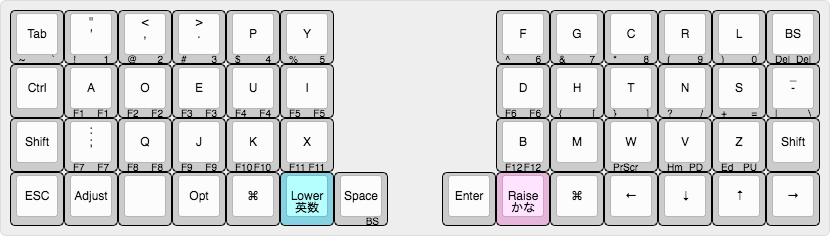
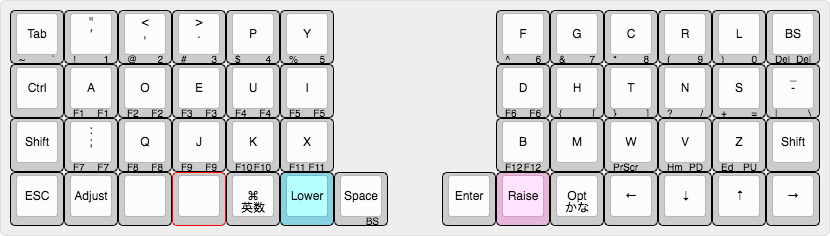
Modify thumb-keys
- Change Right Command to Option
- Assign Kana to Right Command tap
- Assign Eisu to Left Command tap

diff --git a/keyboards/helix/pico/keymaps/juno/keymap.c b/keyboards/helix/pico/keymaps/juno/keymap.c
@@ -65,7 +65,7 @@ const uint16_t PROGMEM keymaps[][MATRIX_ROWS][MATRIX_COLS] = {
    * |------+------+------+------+------+------|             |------+------+------+------+------+------|
    * | Shift|   Z  |   X  |   C  |   V  |   B  |             |   N  |   M  |   ,  |   .  |   /  |Shift |
    * |------+------+------+------+------+------+-------------+------+------+------+------+------+------|
-   * |Esc   |Adjust| Alt  | Alt  | GUI  |Lower |Space |Enter |Raise | GUI  | Left | Down |  Up  |Right |
+   * |Esc   |Adjust| Alt  | Alt  | GUIEI|Lower |Space |Enter |Raise | ALTKN | Left | Down |  Up  |Right |
    * `-------------------------------------------------------------------------------------------------'
    */
 
@@ -73,7 +73,7 @@ const uint16_t PROGMEM keymaps[][MATRIX_ROWS][MATRIX_COLS] = {
       KC_TAB,  KC_Q,    KC_W,    KC_E,    KC_R,    KC_T,                      KC_Y,    KC_U,    KC_I,    KC_O,    KC_P,    KC_BSPC, \
       KC_LCTL, KC_A,    KC_S,    KC_D,    KC_F,    KC_G,                      KC_H,    KC_J,    KC_K,    KC_L,    KC_SCLN, KC_QUOT, \
       KC_LSFT, KC_Z,    KC_X,    KC_C,    KC_V,    KC_B,                      KC_N,    KC_M,    KC_COMM, KC_DOT,  KC_SLSH, KC_RSFT , \
-      KC_ESC,  ADJUST,  KC_LALT, KC_LALT, KC_LGUI, LT(_LOWER,KC_LANG2),   KC_SPC,  KC_ENT,  LT(_RAISE,KC_LANG1),KC_RGUI,    KC_LEFT, KC_DOWN, KC_UP, KC_RGHT \
+      KC_ESC,  ADJUST,  KC_LALT, KC_LALT, GUI_T(KC_LANG2), LOWER, KC_SPC, KC_ENT, RAISE, ALT_T(KC_LANG1),  KC_LEFT, KC_DOWN, KC_UP, KC_RGHT \
       ),
 
   /* Dvorak
@@ -84,14 +84,14 @@ const uint16_t PROGMEM keymaps[][MATRIX_ROWS][MATRIX_COLS] = {
    * |------+------+------+------+------+------|             |------+------+------+------+------+------|
    * | Shift|   ;  |   Q  |   J  |   K  |   X  |             |   B  |   M  |   W  |   V  |   Z  |Shift |
    * |------+------+------+------+------+------+-------------+------+------+------+------+------+------|
-   * | Esc  |Adjust| Alt  | Alt  | GUI  |Lower |Space |Enter |Raise | GUI  | Left | Down |  Up  |Right |
+   * |Esc   |Adjust| Alt  | Alt  | GUIEI|Lower |Space |Enter |Raise | ALTKN | Left | Down |  Up  |Right |
    * `-------------------------------------------------------------------------------------------------'
    */
   [_DVORAK] = LAYOUT( \
       KC_TAB,  KC_QUOT, KC_COMM, KC_DOT,  KC_P,    KC_Y,                      KC_F,    KC_G,    KC_C,    KC_R,    KC_L,    KC_BSPC, \
       KC_LCTL, KC_A,    KC_O,    KC_E,    KC_U,    KC_I,                      KC_D,    KC_H,    KC_T,    KC_N,    KC_S,    KC_SLSH, \
       KC_LSFT, KC_SCLN, KC_Q,    KC_J,    KC_K,    KC_X,                      KC_B,    KC_M,    KC_W,    KC_V,    KC_Z,    KC_RSFT, \
-      KC_ESC,  ADJUST,  KC_LALT, KC_LALT, KC_LGUI, LOWER,   KC_SPC,  KC_ENT,  RAISE, KC_RGUI,    KC_LEFT, KC_DOWN, KC_UP,   KC_RGHT \
+      KC_ESC,  ADJUST,  KC_LALT, KC_LALT, GUI_T(KC_LANG2), LOWER, KC_SPC, KC_ENT, RAISE, ALT_T(KC_LANG1),  KC_LEFT, KC_DOWN, KC_UP, KC_RGHT \
       ),
 
   /* Lower
